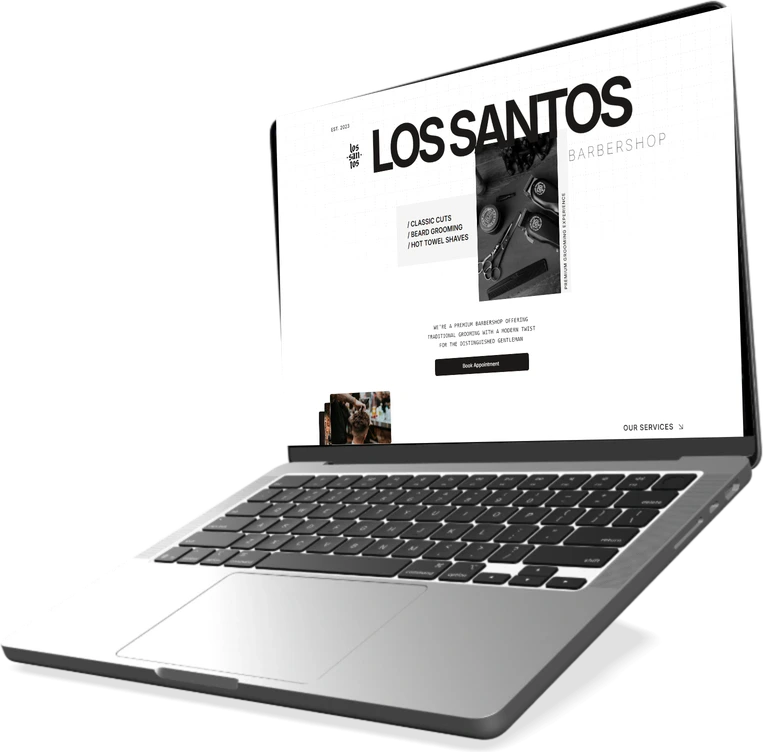
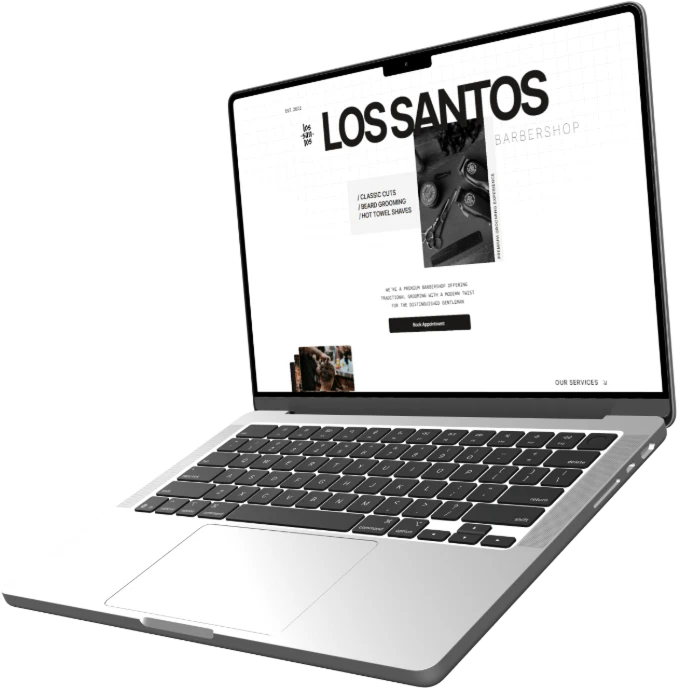
Work: the View disc, the grow steadied, the user's laptop renders
The hub's View disc is the shared hand lens. The hero's expansion
(user: a bit shaky when it opens): the box is a 3D layer, so its rest
rect is rounded and the grow tween snaps left/top/width/height to whole
pixels; the reel's parallax drift fades on the grow's curve instead of
cutting to zero at its first frame. Los Santos, Lumière and Velricon
now use the user's own laptop renders, trimmed, native resolution.

Claude-Session: https://claude.ai/code/session_01MnGcUHt5zXCQDvXFviZgT2

Changed region(s): [[0.0, 0.0, 1.0, 1.0], [0.2171, 0.7936, 0.2482, 0.8241], [0.1861, 0.8241, 0.2171, 0.8547]]

diff --git a/src/components/v4/WorkMotion.tsx b/src/components/v4/WorkMotion.tsx
@@ -2,6 +2,8 @@
 
 import { useEffect, useRef, type ReactNode } from 'react'
 import { gsap, EASE, DUR, rem } from '@/lib/motion-v4'
+import { createHandLens, within } from '@/lib/hand-lens'
+import HandDisc from '@/components/v4/HandDisc'
 import { getLenis } from '@/components/v4/SmoothScroll'
 
 /**
@@ -45,14 +47,26 @@ import { getLenis } from '@/components/v4/SmoothScroll'
  *     folded back.
  *   · Phones and reduced motion keep the in-flow hero with the cut title
  *     under the window (work.css).
+ *   · STEADY (2026-09-13, user: "a bit shaky when it opens"): the box is
+ *     tweened in whole pixels (a 3D layer cannot be sub-pixel placed —
+ *     see place()), and the reel's parallax drift fades out on the
+ *     grow's curve instead of cutting to zero at its first frame.
  *
  * THE META ROW draws its hairlines from the labels outward as it
  * enters. THE CARDS ARRIVE AS PAPER — the homepage §4 move, verbatim: a
  * per-corner homography written as one matrix3d per cell, the INNER
  * corner of each pair grabbed first so the two cards reach for each
- * other across the gutter. Scrub, not playback. THE HAND over a card:
- * the native cursor goes and a frosted disc that says "View" glides to
- * the pointer; the plate becomes a reel; the spotlight rides the ring.
+ * other across the gutter. Scrub, not playback. THE HAND over a card
+ * (shared with the about page's toolset since 2026-09-13 — src/lib/
+ * hand-lens.ts has the how and the why): the native cursor goes and the
+ * glass disc that says "View" springs to the pointer, the card itself
+ * refracted through its face; the plate becomes a reel; the spotlight
+ * rides the ring. This driver's part: the pointer's last known place, a
+ * hit test of it against every card's live rect each frame (so a card
+ * scrolling under a still trackpad pointer takes the hand at once), the
+ * card's hot state (`is-hot`, the hover rules' class twin — the reel,
+ * the develop, the spotlight, the lift) and its spotlight properties,
+ * mirrored onto the clone so the picture in the glass matches.
  *
  * One ticker, rect math, transform and custom properties, and the one
  * layout tween the expansion needs.
@@ -64,8 +78,7 @@ const SPAN = 0.52
 const TRAVEL = 0.72
 const OUT_X = 0.17
 const DOWN_Y = 0.34
-/** the disc's and the pane's glide toward the pointer, per frame */
-const GLIDE = 0.18
+/** the pane's glide toward the pointer, per frame */
 const TILT_GLIDE = 0.12
 /** the pane's reach, in degrees at the window's edge */
 const TILT_X = 7
@@ -142,7 +155,7 @@ export default function WorkMotion({ children }: { children: ReactNode }) {
     const grid = root.querySelector<HTMLElement>('.wk-grid')
     const cells = Array.from(root.querySelectorAll<HTMLElement>('.wk-cell'))
     const cards = Array.from(root.querySelectorAll<HTMLElement>('.wk-card'))
-    const disc = root.querySelector<HTMLElement>('.wk-view')
+    const disc = root.querySelector<HTMLElement>('.k-hand-disc')
 
     let tl: gsap.core.Timeline | null = null
     let cancelled = false
@@ -223,28 +236,33 @@ export default function WorkMotion({ children }: { children: ReactNode }) {
       hero.style.setProperty('--wk-after', `${AFTER * 100}svh`)
       /* the window leaves the flow at its own rest rect (in the stage's
          coordinates), so the box can be tweened to the viewport */
+      /* WHOLE PIXELS (2026-09-13, user: "a bit shaky when it opens"). The
+         window is a 3D layer (perspective + preserve-3d for the tilt), and
+         Chrome cannot carry a sub-pixel offset through a 3D transform: a
+         fractional left/top/width/height is rounded per frame, and the
+         box's edges and everything inside quiver by a pixel while it
+         grows. So the rest rect is rounded, and the grow tween SNAPS its
+         four numbers to integers every frame. */
+      const rest = { left: 0, top: 0, width: 0, height: 0 }
       const place = () => {
-        const s = stage.getBoundingClientRect()
-        const w = win.getBoundingClientRect()
         gsap.set(win, {
           position: 'absolute',
-          left: w.left - s.left,
-          top: w.top - s.top,
-          width: w.width,
-          height: w.height,
+          left: rest.left,
+          top: rest.top,
+          width: rest.width,
+          height: rest.height,
           margin: 0,
         })
       }
       /* measure in flow first: clear any previous placement */
-      const rest = { left: 0, top: 0, width: 0, height: 0 }
       const measureRest = () => {
         gsap.set(win, { clearProps: 'position,left,top,width,height,margin' })
         const s = stage.getBoundingClientRect()
         const w = win.getBoundingClientRect()
-        rest.left = w.left - s.left
-        rest.top = w.top - s.top
-        rest.width = w.width
-        rest.height = w.height
+        rest.left = Math.round(w.left - s.left)
+        rest.top = Math.round(w.top - s.top)
+        rest.width = Math.round(w.width)
+        rest.height = Math.round(w.height)
         place()
       }
       measureRest()
@@ -268,7 +286,16 @@ export default function WorkMotion({ children }: { children: ReactNode }) {
         grow.fromTo(
           win,
           { left: rest.left, top: rest.top, width: rest.width, height: rest.height, borderRadius: '0.625rem' },
-          { left: 0, top: 0, width: vw, height: vh, borderRadius: '0rem', duration: GROW, ease: GROW_EASE },
+          {
+            left: 0,
+            top: 0,
+            width: vw,
+            height: vh,
+            borderRadius: '0rem',
+            duration: GROW,
+            ease: GROW_EASE,
+            snap: 'left,top,width,height',
+          },
           0.1,
         )
         if (shade) grow.to(shade, { opacity: 1, duration: 0.8, ease: 'sine.out' }, 0.6)
@@ -445,38 +472,42 @@ export default function WorkMotion({ children }: { children: ReactNode }) {
       ty = 0
       onPane = false
     }
+    /* the pointer's last known place on the page; unknown until it has
+       moved once, and unknown again once it has left the window */
     let px = 0
     let py = 0
-    let dx = 0
-    let dy = 0
-    let over = false
-    const cardHandlers = cards.map((c) => {
-      const move = (e: PointerEvent) => {
-        const r = c.getBoundingClientRect()
-        c.style.setProperty('--wk-mx', `${(e.clientX - r.left).toFixed(1)}px`)
-        c.style.setProperty('--wk-my', `${(e.clientY - r.top).toFixed(1)}px`)
-        px = e.clientX
-        py = e.clientY
-        if (!over) {
-          over = true
-          dx = px
-          dy = py
-          root.classList.add('is-view')
-        }
-      }
-      const leave = () => {
-        over = false
-        root.classList.remove('is-view')
-      }
-      return { move, leave }
-    })
+    let known = false
+    const onPointer = (e: PointerEvent) => {
+      if (e.pointerType !== 'mouse' && e.pointerType !== 'pen') return
+      px = e.clientX
+      py = e.clientY
+      known = true
+    }
+    const onGone = () => {
+      known = false
+    }
+    let hot: HTMLElement | null = null
+    /* the lens: a card's clone shows hot and revealed; its spotlight
+       follows the real card's, written each frame */
+    const lens =
+      hover && disc
+        ? createHandLens({
+            disc,
+            onClone: (c) => {
+              c.classList.add('is-in', 'is-hot')
+            },
+            syncClone: (c, s) => {
+              c.style.setProperty('--wk-mx', s.style.getPropertyValue('--wk-mx'))
+              c.style.setProperty('--wk-my', s.style.getPropertyValue('--wk-my'))
+            },
+          })
+        : null
     if (hover) {
       win?.addEventListener('pointermove', onWin)
       win?.addEventListener('pointerleave', offWin)
-      cards.forEach((c, i) => {
-        c.addEventListener('pointermove', cardHandlers[i].move)
-        c.addEventListener('pointerleave', cardHandlers[i].leave)
-      })
+      window.addEventListener('pointermove', onPointer, { passive: true })
+      document.documentElement.addEventListener('pointerleave', onGone)
+      window.addEventListener('blur', onGone)
     }
 
     /* ---- the clock ---- */
@@ -504,13 +535,19 @@ export default function WorkMotion({ children }: { children: ReactNode }) {
           titleWrap.style.transform = `translate3d(0, ${(c * 64 * k).toFixed(2)}px, 0)`
         }
       }
-      /* the reel drifts against the scroll while the window is at rest */
-      if (host && winMedia && !(grow && grow.progress() > 0)) {
+      /* the reel drifts against the scroll while the window is at rest.
+         The drift FADES with the expansion's progress rather than
+         switching off at its first frame: at rest it sits ~10px off,
+         and cutting to 0 the moment the box began to grow was a visible
+         jolt at the open (and again at the end of a fold). The scroll
+         is locked while the sequence runs, so the rect is still and the
+         only motion is the fade, on the grow's own curve. */
+      if (host && winMedia) {
         const r = host.getBoundingClientRect()
         const c = (r.bottom - vh / 2) / vh
-        winMedia.style.transform = `translate3d(0, ${(c * -22 * k).toFixed(2)}px, 0)`
-      } else if (winMedia) {
-        winMedia.style.transform = ''
+        const held = grow ? 1 - grow.progress() : 1
+        const dy = c * -22 * k * held
+        winMedia.style.transform = held > 0 ? `translate3d(0, ${dy.toFixed(2)}px, 0)` : ''
       }
       if (paper && grid) {
         const gridTop = grid.getBoundingClientRect().top
@@ -523,10 +560,26 @@ export default function WorkMotion({ children }: { children: ReactNode }) {
           writePaper(i, ps[i])
         }
       }
-      if (hover && disc && over) {
-        dx += (px - dx) * GLIDE
-        dy += (py - dy) * GLIDE
-        disc.style.transform = `translate3d(${(dx - disc.offsetWidth / 2).toFixed(1)}px, ${(dy - disc.offsetHeight / 2).toFixed(1)}px, 0)`
+      /* THE HAND: which card is under the pointer, every frame */
+      if (lens) {
+        let under: HTMLElement | null = null
+        if (known) {
+          for (const c of cards) {
+            const r = c.getBoundingClientRect()
+            if (within(r, px, py)) {
+              under = c
+              c.style.setProperty('--wk-mx', `${(px - r.left).toFixed(1)}px`)
+              c.style.setProperty('--wk-my', `${(py - r.top).toFixed(1)}px`)
+              break
+            }
+          }
+        }
+        if (under !== hot) {
+          hot?.classList.remove('is-hot')
+          under?.classList.add('is-hot')
+          hot = under
+        }
+        lens.tick(px, py, under, false)
       }
     }
     tick()
@@ -541,16 +594,17 @@ export default function WorkMotion({ children }: { children: ReactNode }) {
       ;(root as HTMLElement & { __offPin?: () => void }).__offPin?.()
       win?.removeEventListener('pointermove', onWin)
       win?.removeEventListener('pointerleave', offWin)
-      cards.forEach((c, i) => {
-        c.removeEventListener('pointermove', cardHandlers[i].move)
-        c.removeEventListener('pointerleave', cardHandlers[i].leave)
-      })
+      window.removeEventListener('pointermove', onPointer)
+      document.documentElement.removeEventListener('pointerleave', onGone)
+      window.removeEventListener('blur', onGone)
+      lens?.destroy()
+      hot?.classList.remove('is-hot')
       cells.forEach((el) => {
         el.style.transform = ''
         el.style.opacity = ''
       })
       grid?.classList.remove('is-paper')
-      root.classList.remove('is-in', 'is-view', 'is-locked')
+      root.classList.remove('is-in', 'is-locked')
       meta?.classList.remove('is-in')
       cards.forEach((c) => c.classList.remove('is-in'))
       if (titleWrap) titleWrap.style.transform = ''
@@ -563,10 +617,8 @@ export default function WorkMotion({ children }: { children: ReactNode }) {
   return (
     <main ref={ref} className="wk">
       {children}
-      {/* the hand's disc over the cards — the word is the affordance */}
-      <div className="wk-view" aria-hidden="true">
-        <span>View</span>
-      </div>
+      {/* the hand's disc over the cards: the glass, the lens, the word */}
+      <HandDisc word="View" />
     </main>
   )
 }

diff --git a/src/app/(v4)/work/work.css b/src/app/(v4)/work/work.css
@@ -394,14 +394,17 @@
 @media (hover: hover) {
   .wk-card { transition-property: opacity, filter, transform, background; cursor: none; }
   .wk-card.is-in:hover,
-  .wk-grid.is-paper .wk-card:hover {
+  .wk-grid.is-paper .wk-card:hover,
+  .wk-card.is-hot {
     transform: translateY(-0.35rem);
     transition:
       transform var(--d-base) var(--e-settle),
       background var(--d-base) var(--e-settle);
   }
   .wk-card:hover::before,
-  .wk-card:hover::after { opacity: 1; }
+  .wk-card:hover::after,
+  .wk-card.is-hot::before,
+  .wk-card.is-hot::after { opacity: 1; }
 }
 /* THE PLATE: 19:10 — the ratio the reel's captures are shot at. At
    rest the first frame, mono. Under the hand the plate is a REEL: the
@@ -436,7 +439,8 @@
 .wk-pf:first-child { opacity: 1; }
 .wk-pf-low { object-position: 50% 100%; }
 @media (hover: hover) {
-  .wk-card:hover .wk-pf {
+  .wk-card:hover .wk-pf,
+  .wk-card.is-hot .wk-pf {
     filter: grayscale(0) brightness(1) contrast(1);
     transform: scale(1.04);
     /* the keyframe set is picked by the card's frame count (--wk-anim,
@@ -510,53 +514,19 @@
 }
 .wk-card-cover:focus-visible { outline: 2px solid var(--focus-ring); outline-offset: -2px; }
 
-/* THE HAND'S DISC over the cards: the about page's drag disc, re-worded.
-   Fixed, moved by the driver (its outer translate), scaling through its
-   inner face so the two transforms never fight. */
-.wk-view {
-  position: fixed;
-  left: 0;
-  top: 0;
-  z-index: 40;
-  width: 6.4rem;
-  height: 6.4rem;
-  display: grid;
-  place-items: center;
-  color: var(--n-0);
-  font-size: 0.9rem;
-  letter-spacing: 0.02em;
-  text-shadow: 0 1px 2px rgb(13 16 18 / 0.35);
-  pointer-events: none;
-  will-change: transform;
-}
-.wk-view::before {
-  content: '';
-  position: absolute;
-  inset: 0;
-  border-radius: var(--r-full);
-  background: linear-gradient(160deg, rgb(255 255 255 / 0.28) 0%, rgb(255 255 255 / 0.1) 100%);
-  backdrop-filter: blur(0.9rem) saturate(1.1);
-  -webkit-backdrop-filter: blur(0.9rem) saturate(1.1);
-  box-shadow:
-    inset 0 1px 0 rgb(255 255 255 / 0.5),
-    inset 0 0 0 1px rgb(255 255 255 / 0.28),
-    0 1rem 2rem -0.75rem rgb(13 16 18 / 0.35);
-  transform: scale(0);
-  transition: transform var(--d-base) var(--e-settle);
-}
-.wk-view > span {
-  position: relative;
-  display: block;
-  transform: scale(0);
-  opacity: 0;
-  transition:
-    transform var(--d-base) var(--e-settle),
-    opacity var(--d-instant) linear;
-}
-.wk.is-view .wk-view::before { transform: scale(1); }
-.wk.is-view .wk-view > span { transform: scale(1); opacity: 1; }
-@media (hover: none) {
-  .wk-view { display: none; }
+/* THE HAND'S DISC is the shared one (HandDisc.tsx, hand-lens.ts, the
+   .k-hand-* rules in tokens.css). What is this page's alone: the lens'
+   clone of a card must paint as the real card does under the hand —
+   hot and revealed (the driver's classes) — but with its entrance and
+   its hover lift off: the wrapper is laid on the real card's rect, lift
+   included, so a lift of its own would double it. The reel and the
+   develop keep their timing, which begins the same frame as the real
+   card's. */
+.k-hand-clone.wk-card {
+  transition: none !important;
+  opacity: 1 !important;
+  filter: none !important;
+  transform: none !important;
 }
 
 /* ---------- §4 · THE INVITATION ---------- */
